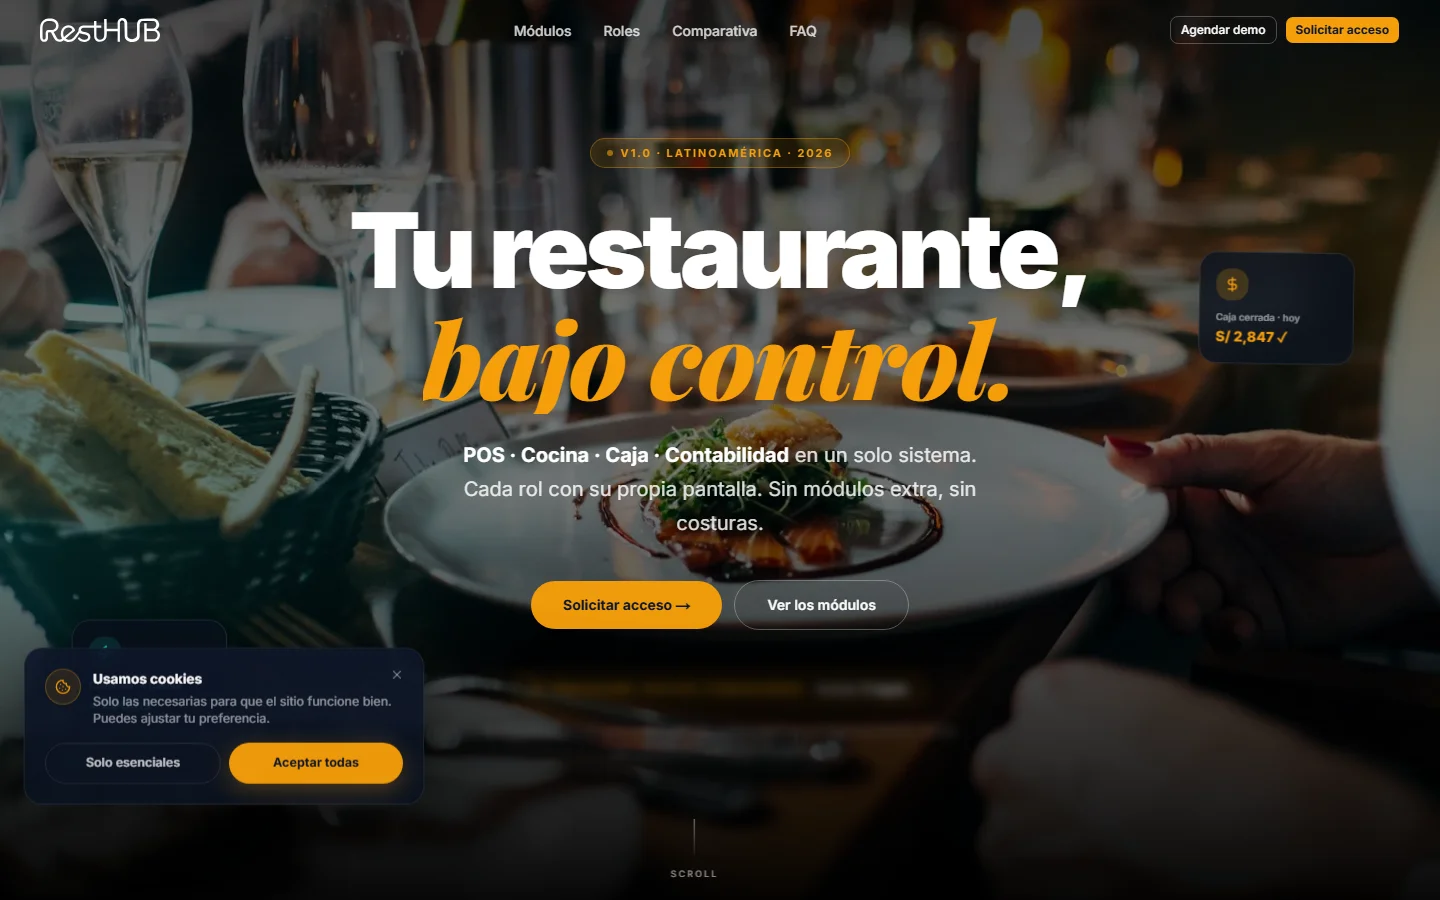
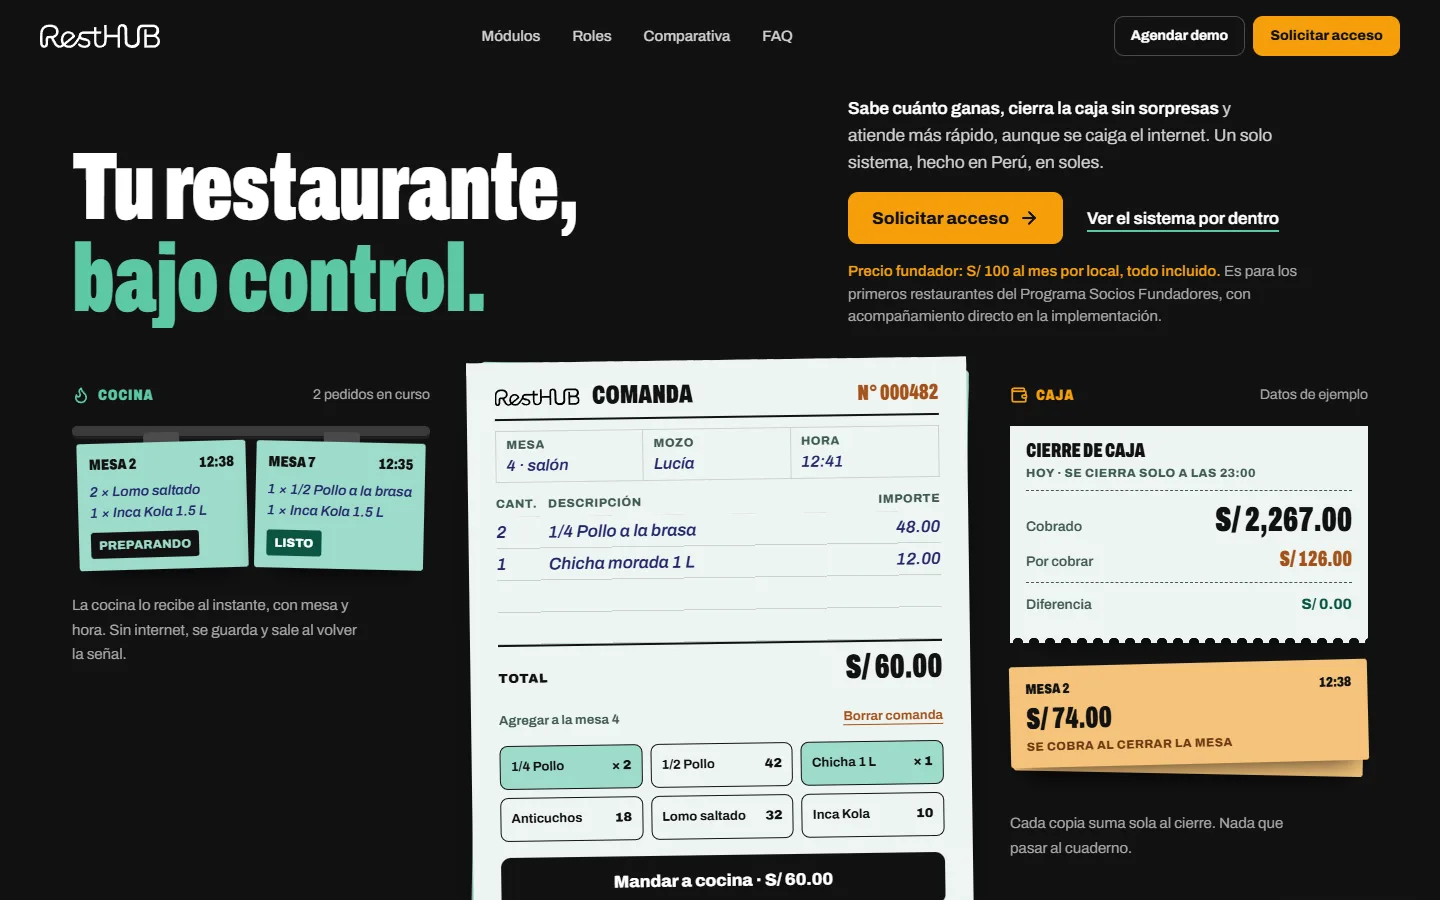
fix(portafolio): miniaturas al día y fechas del blog en el día correcto
- Miniaturas rehechas desde los sitios en vivo: MercaPerú (ya no dice
  DECEPTIVE PATTERNS), RestHUB (sin «V1.0 · Latinoamérica» ni el banner de
  cookies), Agencia., el Simposio (edición realizada, sin cuenta regresiva)
  y VR PMS (panel en español con datos de demo en vez del dashboard vacío
  en inglés).
- formatDate en UTC: las fechas del frontmatter son de calendario y en la
  hora de Lima salían un día antes.

diff --git a/lib/utils.ts b/lib/utils.ts
@@ -17,10 +17,14 @@ export function formatDate(date: Date | string): string {
   if (!date) return ""
   const dateObj = typeof date === "string" ? new Date(date) : date
   if (Number.isNaN(dateObj.getTime())) return ""
+  // "2026-10-20" se interpreta como medianoche UTC: formateada en la hora de
+  // Lima salía "19 de octubre". Las fechas del frontmatter son de calendario,
+  // así que se formatean en UTC para que el día sea el escrito.
   return new Intl.DateTimeFormat("es-ES", {
     year: "numeric",
     month: "long",
     day: "numeric",
+    timeZone: "UTC",
   }).format(dateObj)
 }
 
